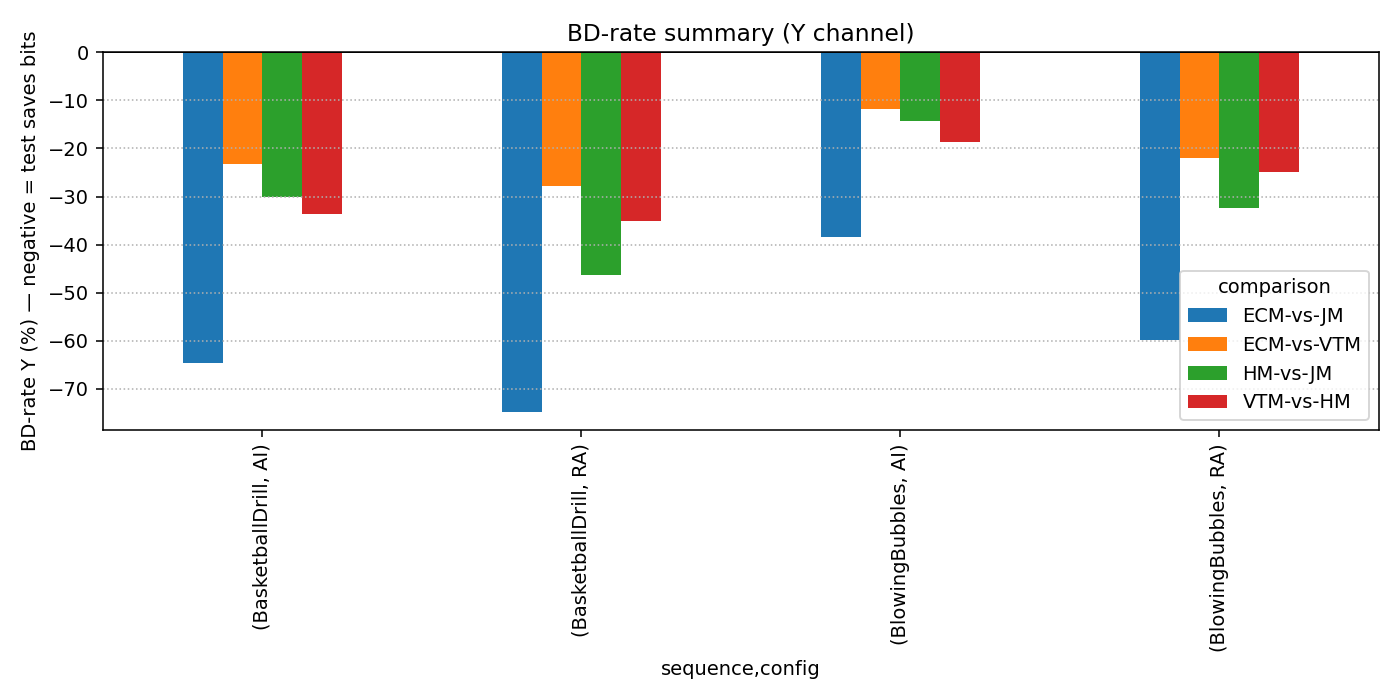
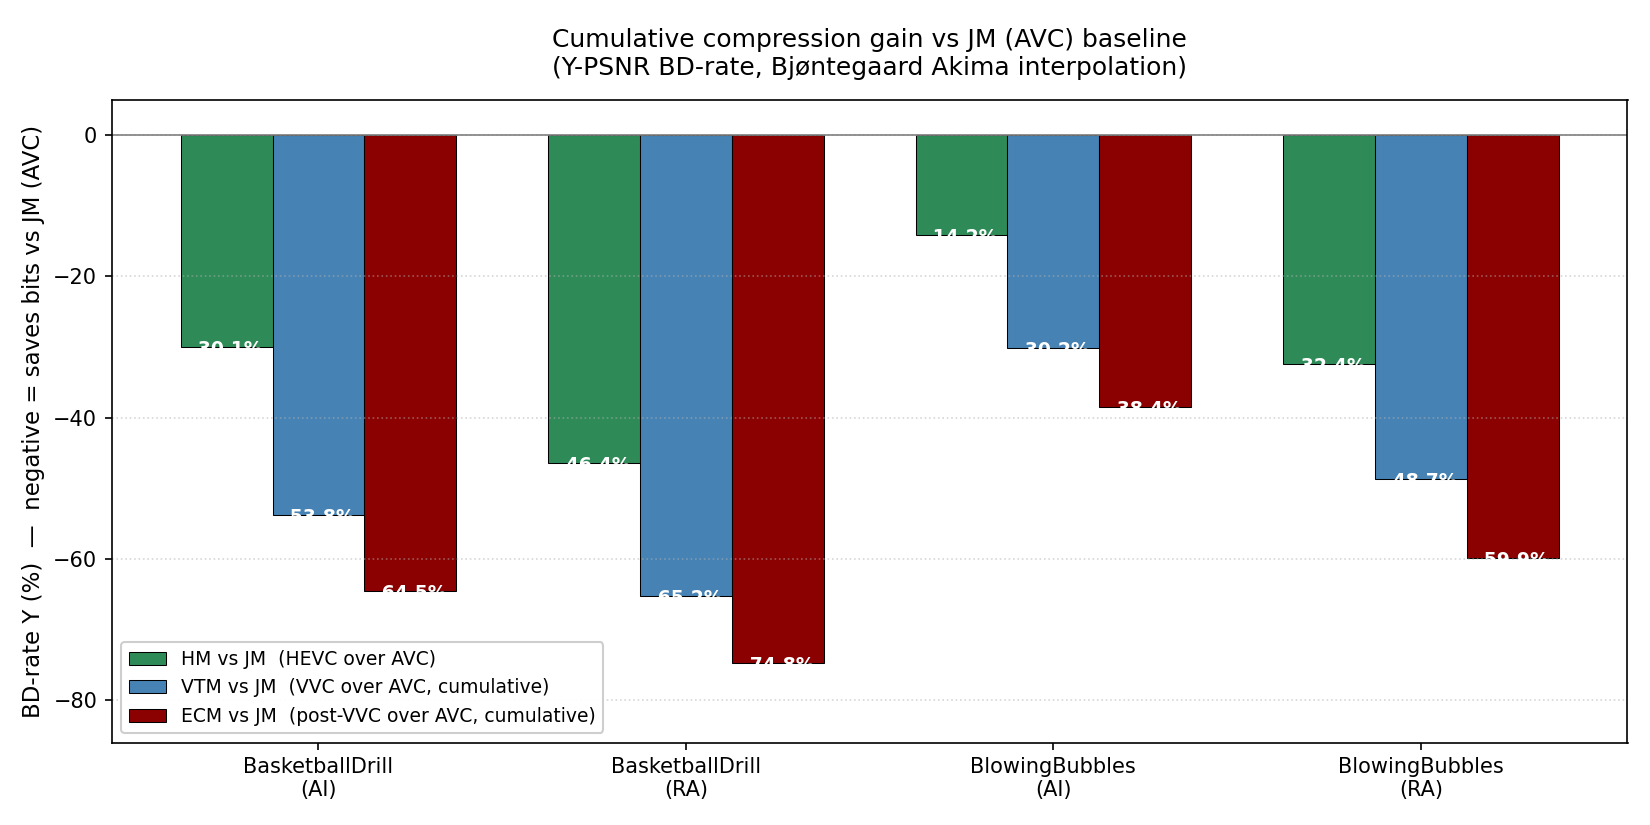
BD-rate: switch primary chart to cumulative-vs-JM view (3 bars/group)

diff --git a/scripts/build_report.py b/scripts/build_report.py
@@ -59,23 +59,57 @@ def main() -> int:
         fig.savefig(fig_path, dpi=140)
         plt.close(fig)
 
-    # --- Figure 2: BD-rate bar chart (Y channel) ---
-    bd_y = bd[["sequence", "config", "comparison", "Y"]].copy()
-    fig, ax = plt.subplots(figsize=(10, 5))
-    labels = [f"{r.sequence}/{r.config}" for r in bd_y.itertuples()]
-    comparisons = bd_y["comparison"].unique()
-    width = 0.8 / len(comparisons)
-    x = range(len(bd_y["sequence"].unique()) * len(bd_y["config"].unique()))
-    # Simpler: just plot a table-like summary
-    pivot = bd_y.pivot_table(index=["sequence", "config"], columns="comparison",
-                             values="Y")
-    pivot.plot(kind="bar", ax=ax)
-    ax.axhline(0, color="black", linewidth=0.5)
-    ax.set_ylabel("BD-rate Y (%) — negative = test saves bits")
-    ax.set_title("BD-rate summary (Y channel)")
-    ax.grid(True, axis="y", linestyle=":")
+    # --- Figure 2: BD-rate bar chart (Y channel, cumulative vs JM baseline) ---
+    # All three test encoders are compared against the same JM (AVC) baseline so
+    # the cumulative per-generation contribution is directly readable: each bar
+    # extends further down as we add a generation.
+    import numpy as np
+    bd_vs_jm = bd[bd["comparison"].isin(["HM-vs-JM", "VTM-vs-JM", "ECM-vs-JM"])]
+    groups = sorted(bd_vs_jm.groupby(["sequence", "config"]).first().index.tolist())
+    group_labels = [f"{s}\n({c})" for s, c in groups]
+
+    enc_order = [
+        ("HM-vs-JM",  "HM vs JM  (HEVC over AVC)",            "#2E8B57"),
+        ("VTM-vs-JM", "VTM vs JM  (VVC over AVC, cumulative)",  "#4682B4"),
+        ("ECM-vs-JM", "ECM vs JM  (post-VVC over AVC, cumulative)", "#8B0000"),
+    ]
+
+    fig, ax = plt.subplots(figsize=(11, 5.5))
+    x = np.arange(len(groups))
+    width = 0.25
+
+    for i, (cmp_name, legend, color) in enumerate(enc_order):
+        vals = []
+        for s, c in groups:
+            row = bd_vs_jm[(bd_vs_jm.sequence == s) &
+                           (bd_vs_jm.config == c) &
+                           (bd_vs_jm.comparison == cmp_name)]
+            vals.append(row["Y"].values[0] if len(row) else 0)
+        bars = ax.bar(x + (i - 1) * width, vals, width,
+                      label=legend, color=color,
+                      edgecolor="black", linewidth=0.5)
+        # White value labels inside each bar (positioned near the bottom edge)
+        for bar, v in zip(bars, vals):
+            ax.text(bar.get_x() + bar.get_width() / 2, v + 1,
+                    f"{v:.1f}%", ha="center", va="top",
+                    fontsize=9, color="white", fontweight="bold")
+
+    ax.set_xticks(x)
+    ax.set_xticklabels(group_labels, fontsize=10)
+    ax.set_ylabel("BD-rate Y (%)  —  negative = saves bits vs JM (AVC)",
+                  fontsize=11)
+    ax.set_title("Cumulative compression gain vs JM (AVC) baseline\n"
+                 "(Y-PSNR BD-rate, Bjøntegaard Akima interpolation)",
+                 fontsize=12, pad=12)
+    ax.axhline(0, color="gray", linewidth=0.8)
+    ax.grid(True, axis="y", linestyle=":", alpha=0.5)
+    ax.legend(loc="lower left", fontsize=9, framealpha=0.95)
+    # Headroom above zero; pad below the deepest bar
+    deepest = bd_vs_jm["Y"].min() if not bd_vs_jm.empty else -10
+    ax.set_ylim(top=5, bottom=deepest * 1.15)
+
     fig.tight_layout()
-    fig.savefig(FIG_DIR / "bdrate_summary.png", dpi=140)
+    fig.savefig(FIG_DIR / "bdrate_summary.png", dpi=150)
     plt.close(fig)
 
     # --- Figure 3: time ratio vs cumulative BD-rate gain (relative to JM) ---

diff --git a/scripts/compute_bdrate.py b/scripts/compute_bdrate.py
@@ -1,11 +1,18 @@
 #!/usr/bin/env python3
 """Compute BD-rate across encoders from results/raw_metrics.csv.
 
-For each (sequence, config) the BD-rate is computed for these pairs:
-  - HM vs JM           (HEVC vs AVC)
-  - VTM vs HM          (VVC vs HEVC)
-  - ECM vs VTM         (post-VVC vs VVC)
-  - ECM vs JM          (cumulative)
+Two complementary views are emitted, both in results/bdrate_table.csv:
+
+Per-generation (single-step) gains:
+  - HM vs JM           (HEVC over AVC)
+  - VTM vs HM          (VVC over HEVC)
+  - ECM vs VTM         (post-VVC over VVC)
+
+Cumulative-vs-AVC gains (used by build_report.py's primary bar chart, since
+it makes the multi-generation narrative directly readable):
+  - HM vs JM           (= same as above, listed once)
+  - VTM vs JM          (cumulative two-generation)
+  - ECM vs JM          (cumulative four-generation)
 
 Output: results/bdrate_table.csv
 """
@@ -22,9 +29,13 @@ PROJECT_ROOT = Path(__file__).resolve().parents[1]
 RESULTS_DIR = PROJECT_ROOT / "results"
 
 PAIRS = [
-    ("hm", "jm",   "HM-vs-JM"),
+    # Per-generation single-step gains
+    ("hm",  "jm",  "HM-vs-JM"),
     ("vtm", "hm",  "VTM-vs-HM"),
     ("ecm", "vtm", "ECM-vs-VTM"),
+    # Cumulative-vs-JM gains (HM-vs-JM is same as above; VTM-vs-JM and
+    # ECM-vs-JM are the new cumulative comparisons)
+    ("vtm", "jm",  "VTM-vs-JM"),
     ("ecm", "jm",  "ECM-vs-JM"),
 ]
 

diff --git a/report/pilot_results.md b/report/pilot_results.md
@@ -7,18 +7,22 @@ _Generated from raw_metrics.csv (64 rows)._
 | BasketballDrill | AI       | ECM-vs-VTM   | -23.07 | -24.89 | -23.17 |
 | BasketballDrill | AI       | HM-vs-JM     | -31.41 | -31.93 | -30.05 |
 | BasketballDrill | AI       | VTM-vs-HM    | -33.61 | -38.45 | -33.63 |
+| BasketballDrill | AI       | VTM-vs-JM    | -52.94 | -56.73 | -53.75 |
 | BasketballDrill | RA       | ECM-vs-JM    | -77.90 | -78.68 | -74.75 |
 | BasketballDrill | RA       | ECM-vs-VTM   | -29.08 | -30.51 | -27.76 |
 | BasketballDrill | RA       | HM-vs-JM     | -50.01 | -49.32 | -46.40 |
 | BasketballDrill | RA       | VTM-vs-HM    | -38.28 | -40.90 | -35.15 |
+| BasketballDrill | RA       | VTM-vs-JM    | -68.75 | -69.49 | -65.22 |
 | BlowingBubbles  | AI       | ECM-vs-JM    | -24.88 | -29.16 | -38.42 |
 | BlowingBubbles  | AI       | ECM-vs-VTM   |  -3.33 |  -6.89 | -11.77 |
 | BlowingBubbles  | AI       | HM-vs-JM     | -16.02 | -16.43 | -14.20 |
 | BlowingBubbles  | AI       | VTM-vs-HM    |  -7.33 |  -9.12 | -18.57 |
+| BlowingBubbles  | AI       | VTM-vs-JM    | -22.35 | -24.04 | -30.17 |
 | BlowingBubbles  | RA       | ECM-vs-JM    | -59.89 | -62.14 | -59.88 |
 | BlowingBubbles  | RA       | ECM-vs-VTM   | -18.51 | -16.49 | -22.08 |
 | BlowingBubbles  | RA       | HM-vs-JM     | -39.82 | -42.43 | -32.38 |
 | BlowingBubbles  | RA       | VTM-vs-HM    | -18.25 | -21.99 | -24.82 |
+| BlowingBubbles  | RA       | VTM-vs-JM    | -50.77 | -54.95 | -48.66 |
 
 ## 2. Encoding time ratio (relative to JM)
 | sequence        | config   | encoder   |   avg_enc_time_sec |   ratio_vs_jm |
